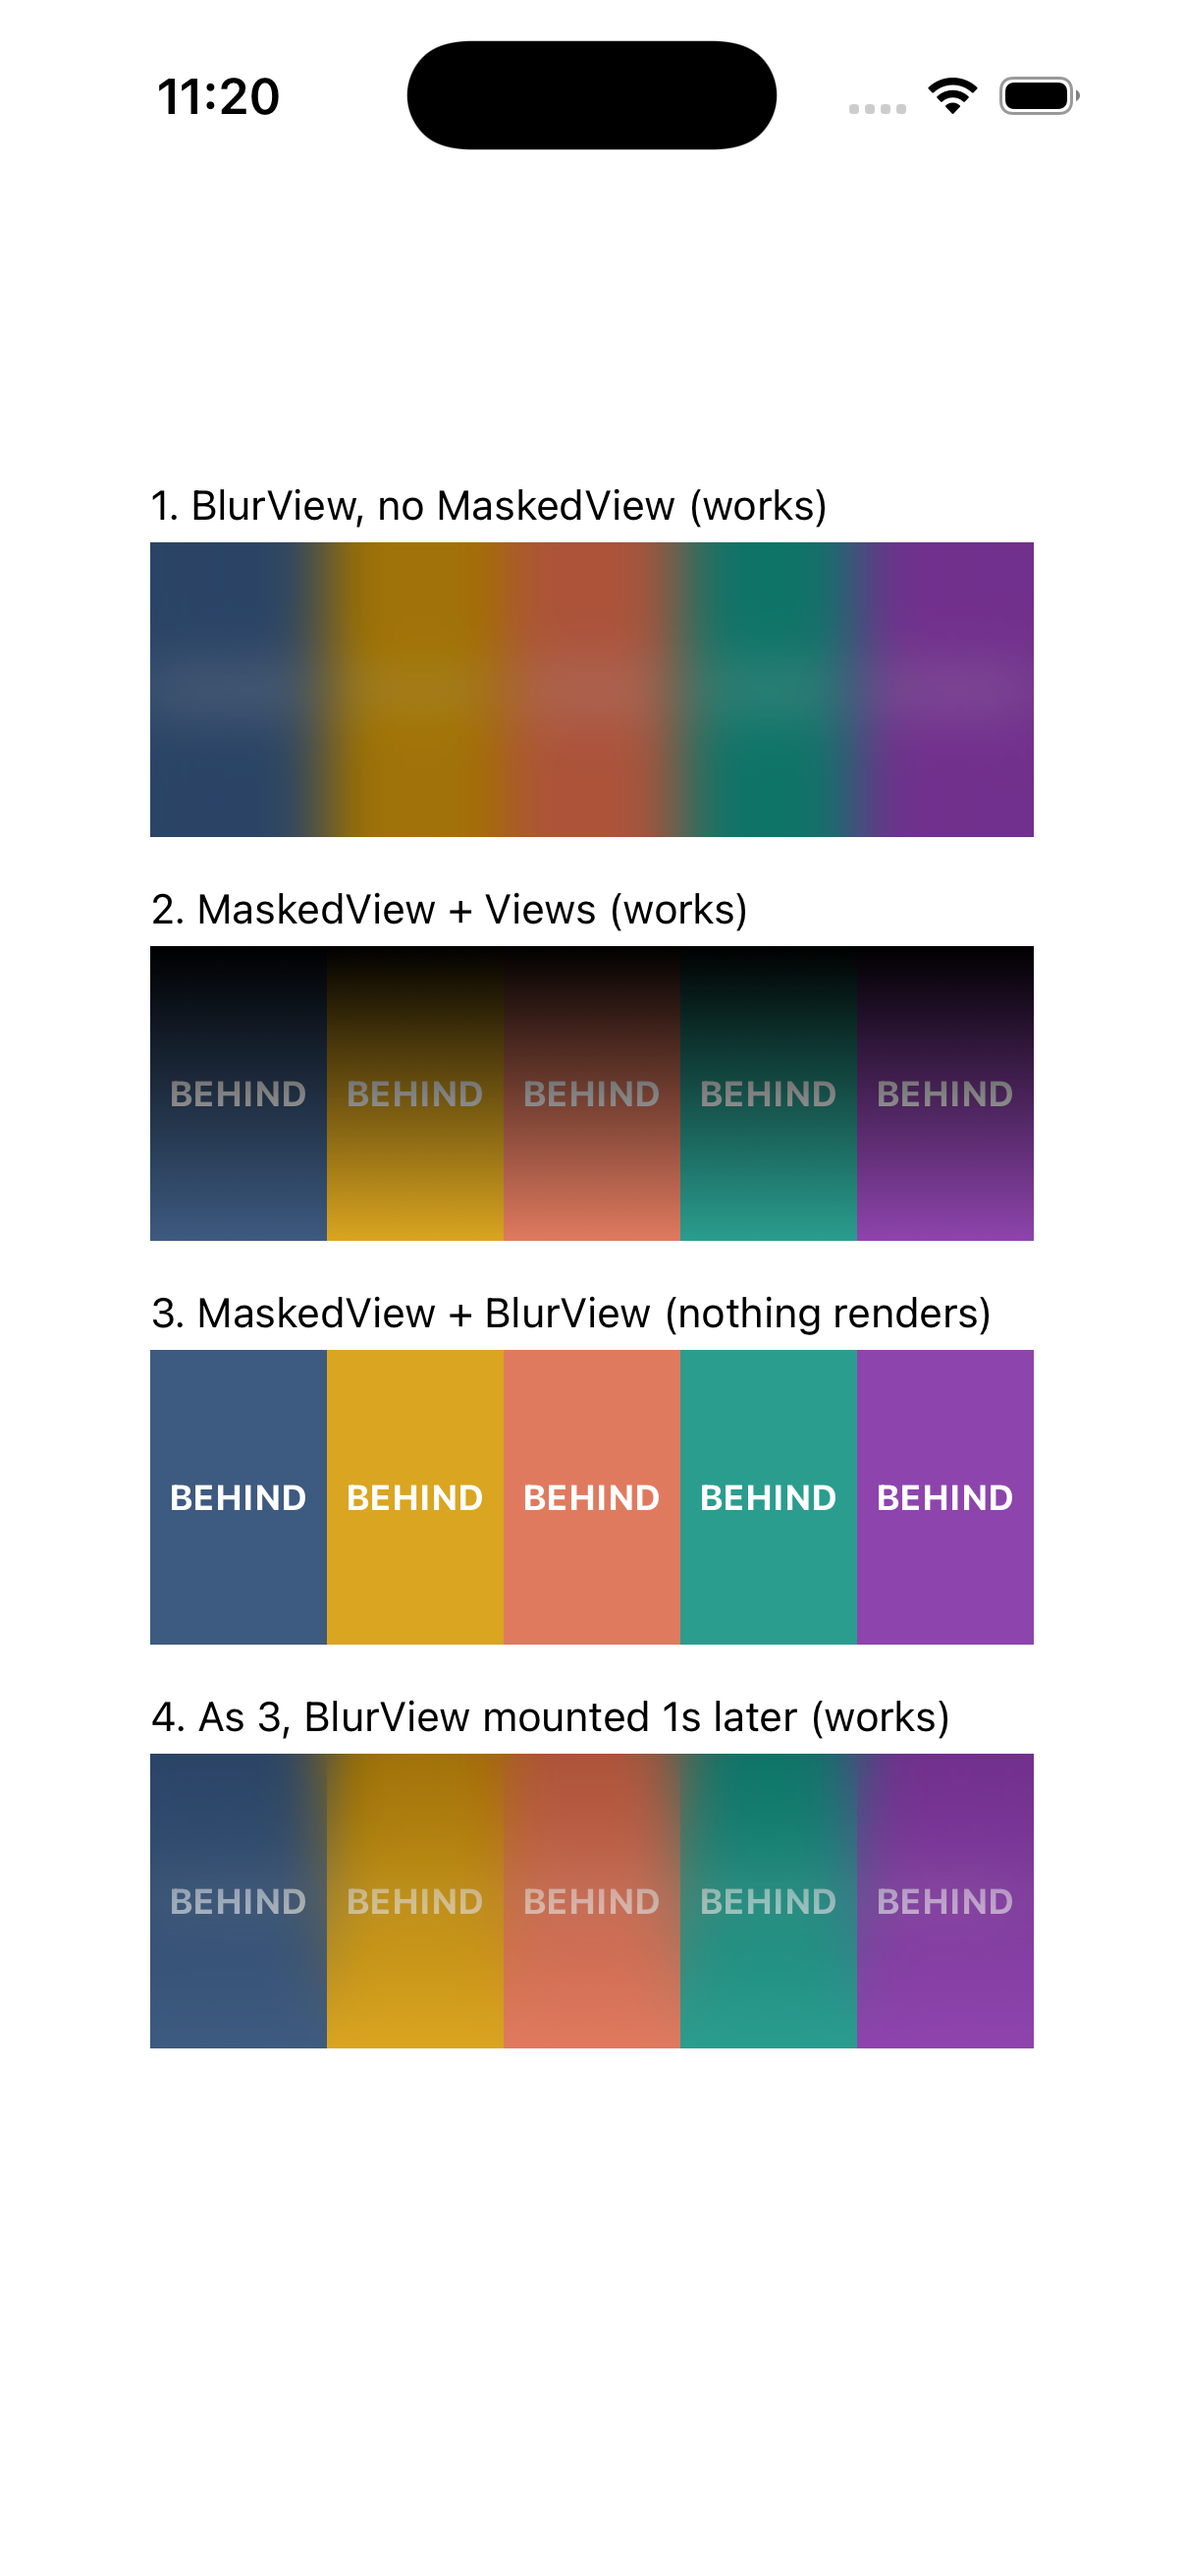
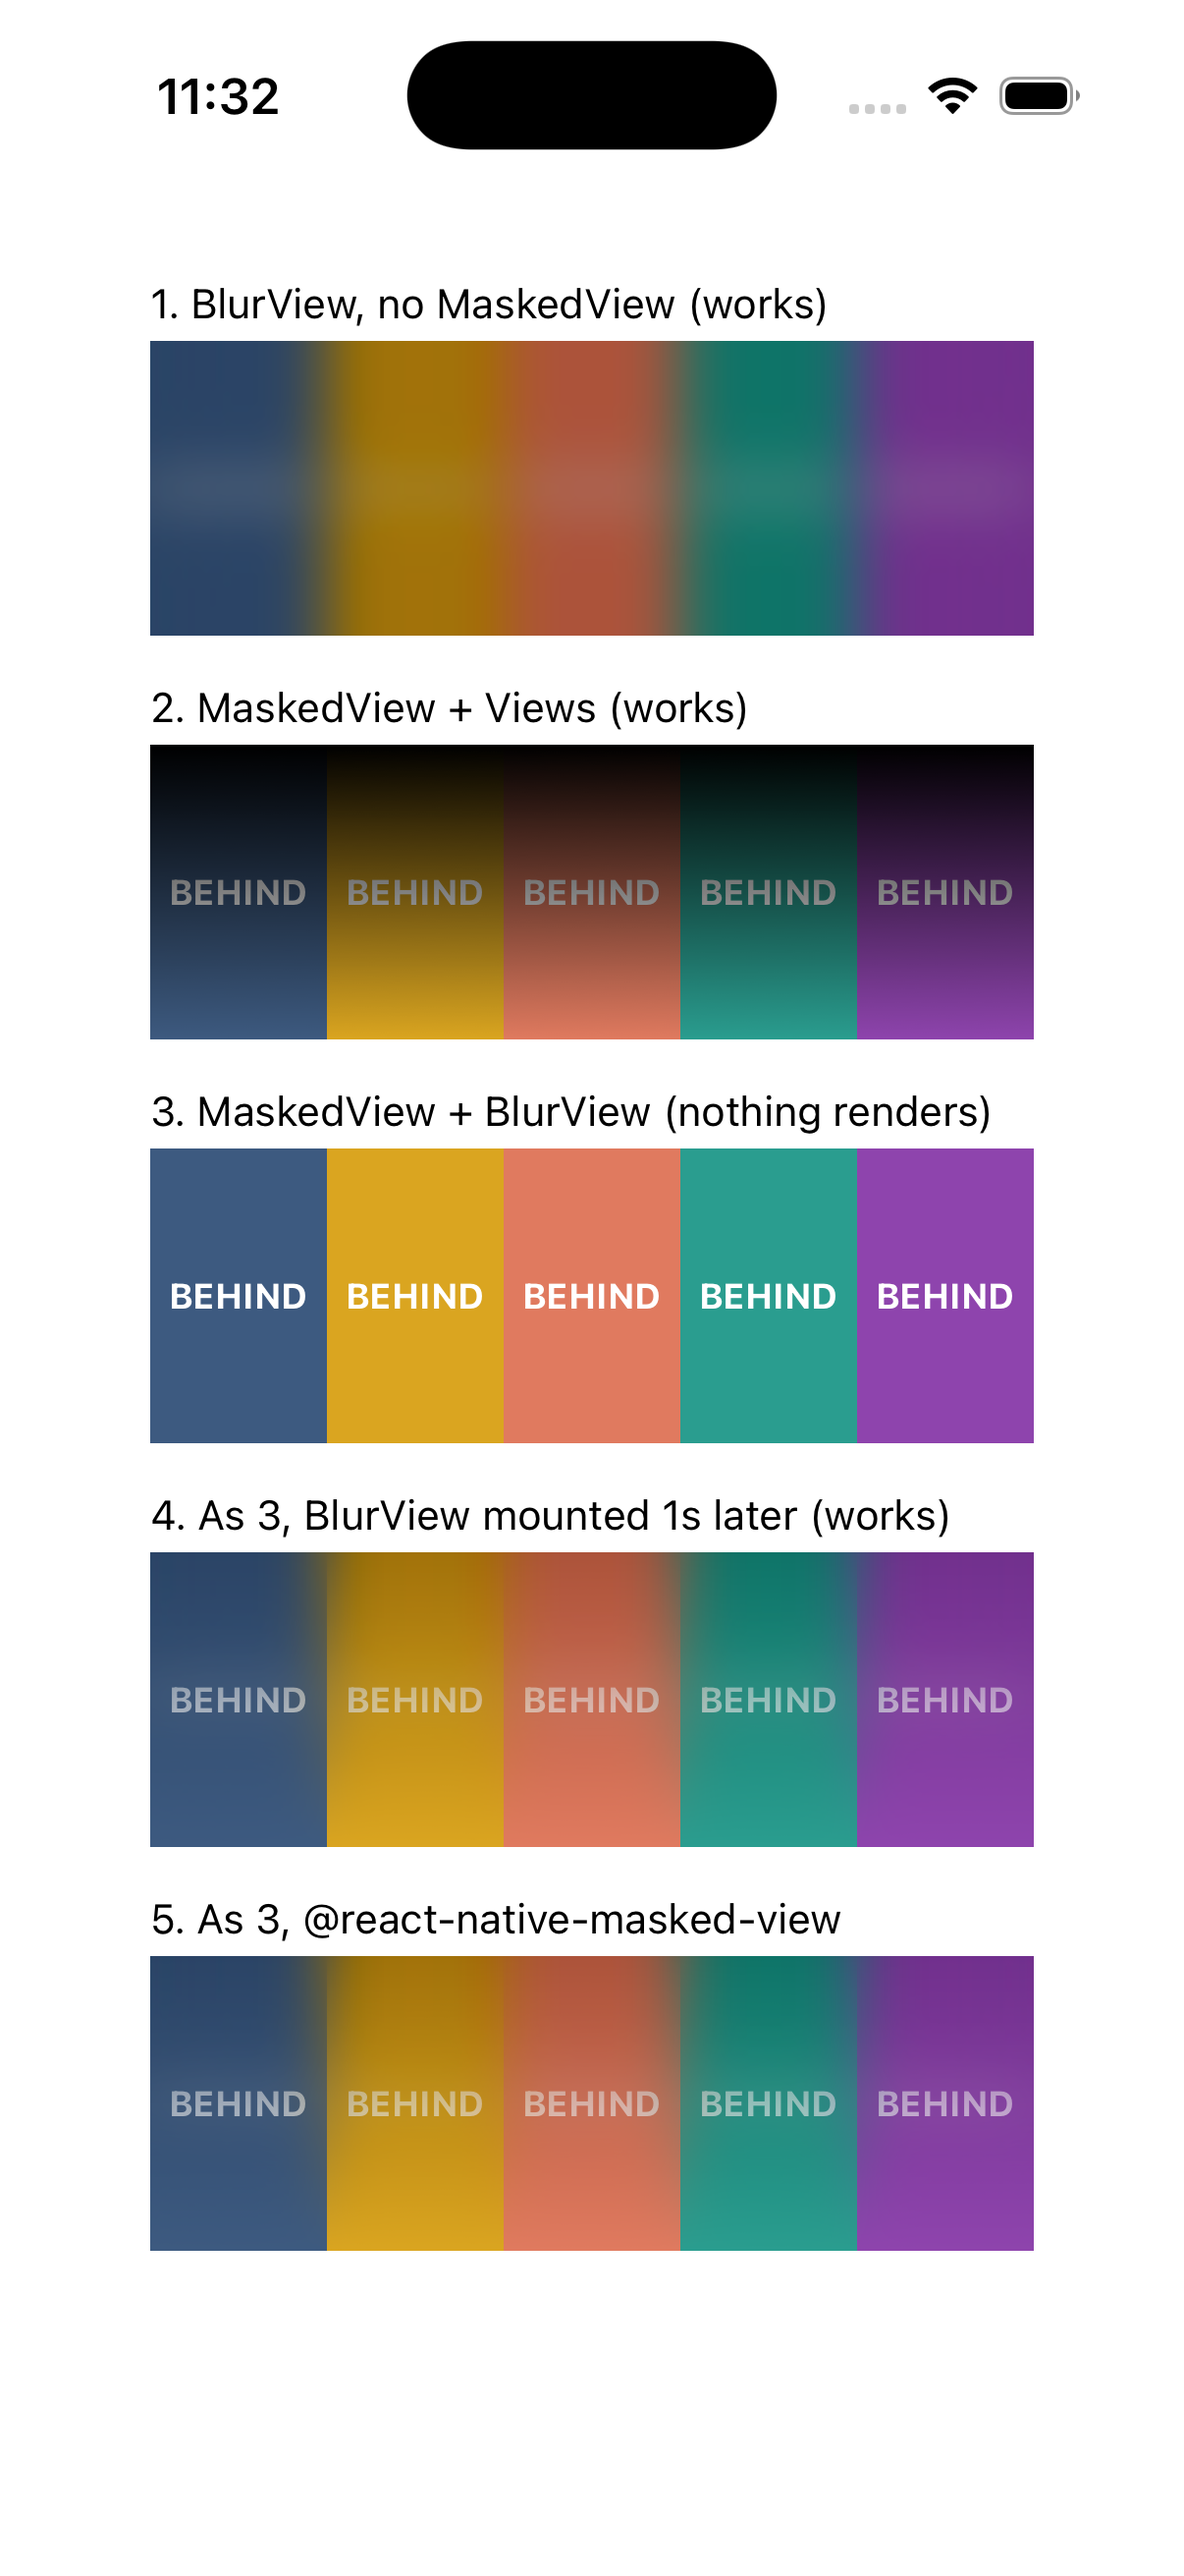
Compare with @react-native-masked-view/masked-view

diff --git a/App.js b/App.js
@@ -4,6 +4,7 @@ import { MaskedView } from '@expo/ui/community/masked-view';
 import { BlurView } from 'expo-blur';
 import { LinearGradient } from 'expo-linear-gradient';
 import { StatusBar } from 'expo-status-bar';
+import RNCMaskedView from '@react-native-masked-view/masked-view';
 
 // Same mask as the "Alpha-fade mask" docs example, but top to bottom
 const mask = (
@@ -69,6 +70,12 @@ export default function App() {
             <BlurView tint="dark" intensity={50} style={{ flex: 1 }} />
           )}
         </MaskedView>
+      </Case>
+
+      <Case label="5. As 3, @react-native-masked-view">
+        <RNCMaskedView style={StyleSheet.absoluteFill} maskElement={mask}>
+          <BlurView tint="dark" intensity={50} style={{ flex: 1 }} />
+        </RNCMaskedView>
       </Case>
 
       <StatusBar style="auto" />

diff --git a/README.md b/README.md
@@ -15,5 +15,6 @@ The screen shows four boxes in front of colored stripes. Boxes 2, 3 and 4 use th
 2. `MaskedView` with a plain `View` child: correct.
 3. `MaskedView` with a `BlurView` child, both mounted at the same time: shows nothing.
 4. The same as box 3, but the `BlurView` mounts 1 second after the `MaskedView`: correct.
+5. The same as box 3, but with `@react-native-masked-view/masked-view` 0.3.2 instead of `MaskedView`: correct.
 
 ![Screenshot on the iPhone 17 simulator, iOS 26.4](screenshot.png)
